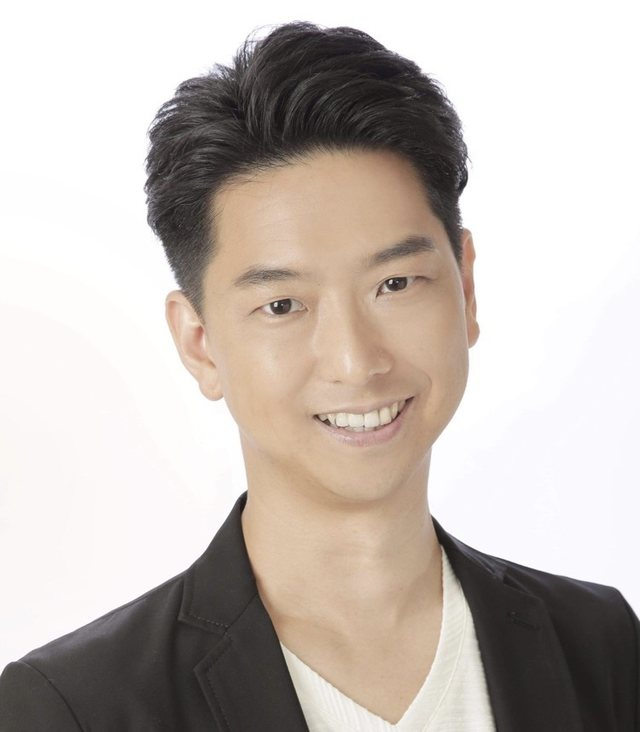
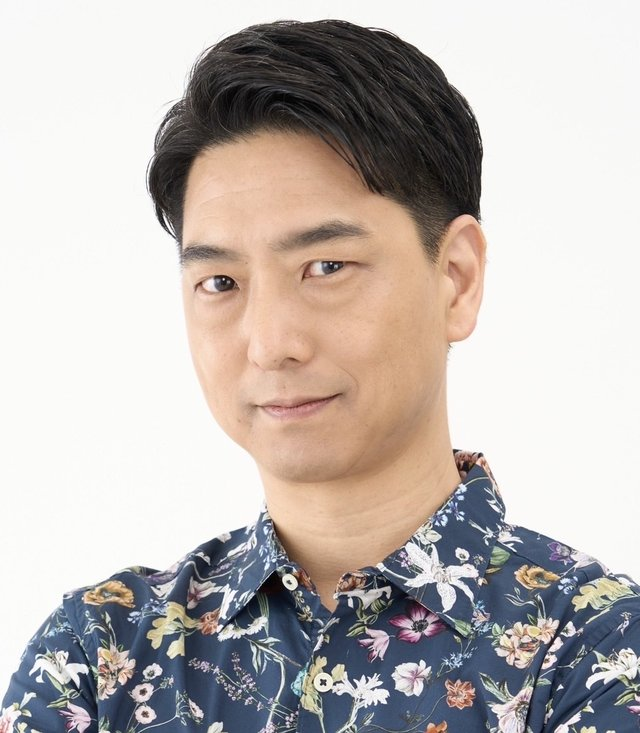
Add files via upload

diff --git a/index.html b/index.html
@@ -430,18 +430,6 @@
         </div>
       </article>
 
-      <article class="teacher">
-        <img class="teacher-photo" src="images/photos/tahara-aruno.jpg" alt="田原アルノ" loading="lazy" width="240" height="300">
-        <div class="teacher-body">
-          <h3 class="teacher-name">田原アルノ</h3>
-          <!-- 担当クラスなしで掲載（2026-11-07 直子さん決定） -->
-          <p class="teacher-aff">ムーヴマン所属</p>
-        </div>
-        <div class="teacher-detail">
-          <p class="teacher-profile">洋画吹き替えを中心に活躍。落ち着いた役や悪役から、老人・執事役まで幅広く演じる。</p>
-          <p class="teacher-works"><span class="works-label">代表作</span>『ONE PIECE』『名探偵コナン』『オーシャンズ11』『24』</p>
-        </div>
-      </article>
 
       <article class="teacher">
         <img class="teacher-photo" src="images/photos/ozaki-junko.jpg" alt="尾崎順子" loading="lazy" width="240" height="300">
@@ -479,6 +467,34 @@
         <div class="teacher-detail">
           <p class="teacher-profile">ゲームやボイスドラマ等の企画・プロデュース・シナリオ執筆に加え、多数の作品の音声監修に携わる。</p>
           <p class="teacher-works"><span class="works-label">代表作</span>ゲーム『忍メン』『相棒は英国男子』『無職転生〜ゲームになっても本気だす〜』（いずれもシナリオ監修）、ドラマCDの企画・監修多数</p>
+        </div>
+      </article>
+
+      <!-- 2026-11-08 追加（直子さんの原稿から抜粋） -->
+      <article class="teacher">
+        <img class="teacher-photo" src="images/photos/araki-junko.jpg" alt="荒木潤子" loading="lazy" width="240" height="300">
+        <div class="teacher-body">
+          <h3 class="teacher-name">荒木潤子</h3>
+          <p class="teacher-class">ディレクターズクラス</p>
+          <p class="teacher-aff">音声演出ディレクター</p>
+        </div>
+        <div class="teacher-detail">
+          <p class="teacher-profile">ゲーム、ドラマCD等の音声演出をはじめ、ラジオ番組・ラジオドラマの構成・演出を多数手がける。声優プロダクションや専門学校での指導を通じ、現場で活躍する声優を多数輩出。</p>
+          <p class="teacher-works"><span class="works-label">代表作（演出）</span>RPG『アトリエ』シリーズ15作品のキャスティング・演出（『マリーのアトリエ』『ロロナのアトリエ』『ソフィーのアトリエ』ほか）</p>
+        </div>
+      </article>
+
+      <article class="teacher">
+        <img class="teacher-photo" src="images/photos/tahara-aruno.jpg" alt="田原アルノ" loading="lazy" width="240" height="300">
+        <div class="teacher-body">
+          <p class="teacher-badge">【特別講師】</p>
+          <h3 class="teacher-name">田原アルノ</h3>
+          <!-- 担当クラスなしで掲載（2026-11-07 直子さん決定）。【特別講師】表記・最後尾へ移動（2026-11-08 直子さん指示） -->
+          <p class="teacher-aff">ムーヴマン所属</p>
+        </div>
+        <div class="teacher-detail">
+          <p class="teacher-profile">洋画吹き替えを中心に活躍。落ち着いた役や悪役から、老人・執事役まで幅広く演じる。</p>
+          <p class="teacher-works"><span class="works-label">代表作</span>『ONE PIECE』『名探偵コナン』『オーシャンズ11』『24』</p>
         </div>
       </article>
 

diff --git a/css/style.css b/css/style.css
@@ -186,6 +186,7 @@ ol, ul { margin: 0; padding: 0; list-style: none; }
   box-shadow: 0 0 0 1px var(--line), 4px 4px 0 0 var(--gold);
 }
 .teacher-body { grid-area: body; align-self: center; }
+.teacher-badge { font-family: var(--serif); font-size: 13px; font-weight: 700; color: #9C7B43; letter-spacing: .08em; margin-bottom: 2px; }
 .teacher-name { font-family: var(--serif); font-size: 21px; color: var(--navy); letter-spacing: .06em; line-height: 1.4; }
 .teacher-class { font-size: 13px; font-weight: 700; color: var(--navy); margin-top: 6px; line-height: 1.5; }
 .teacher-class::before { content: ""; display: inline-block; width: 14px; height: 1px; background: var(--gold); vertical-align: middle; margin-right: 6px; }
